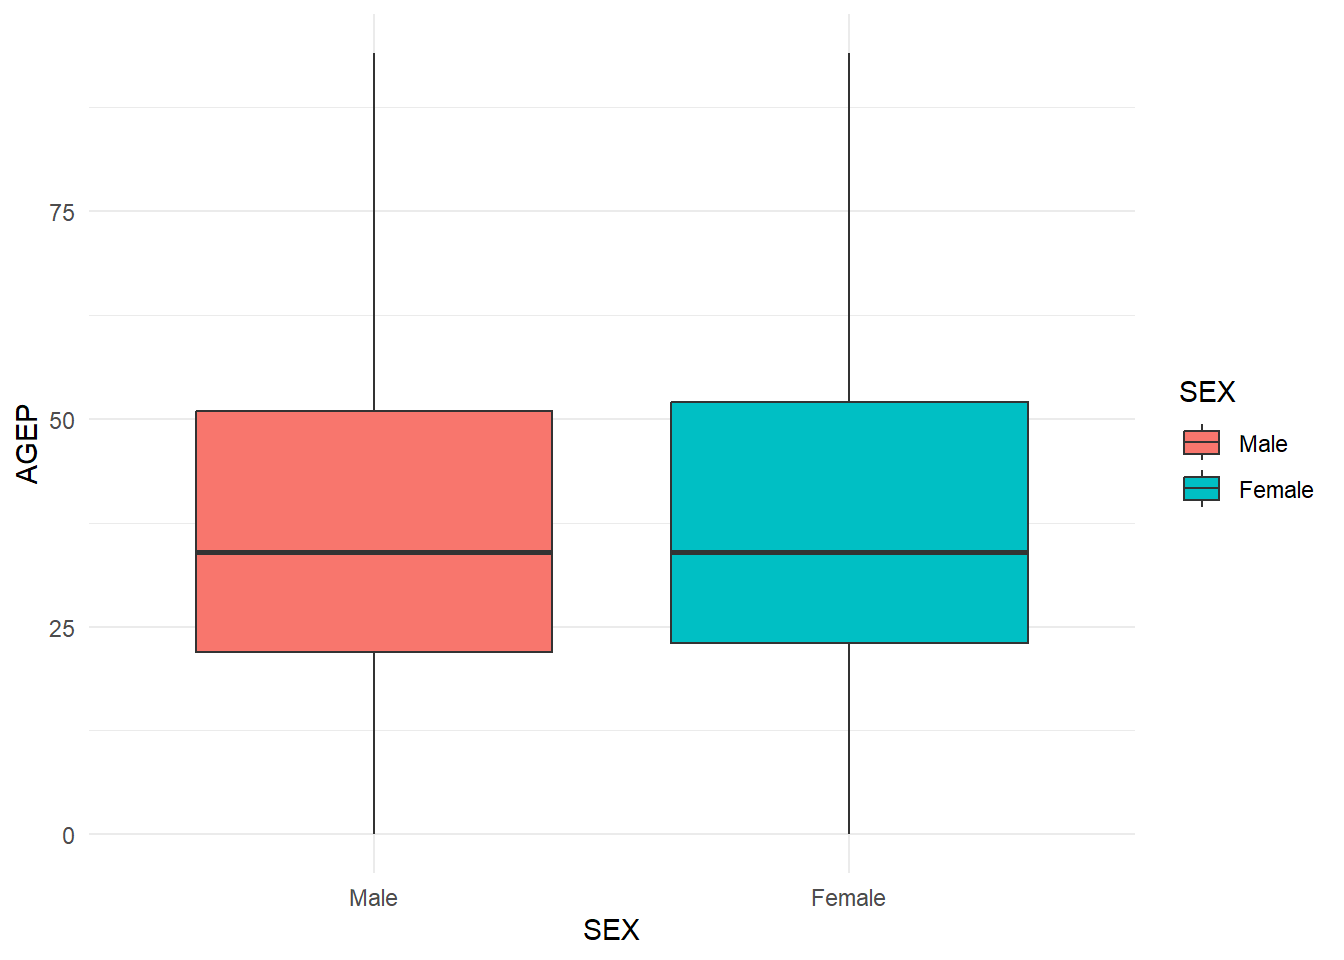
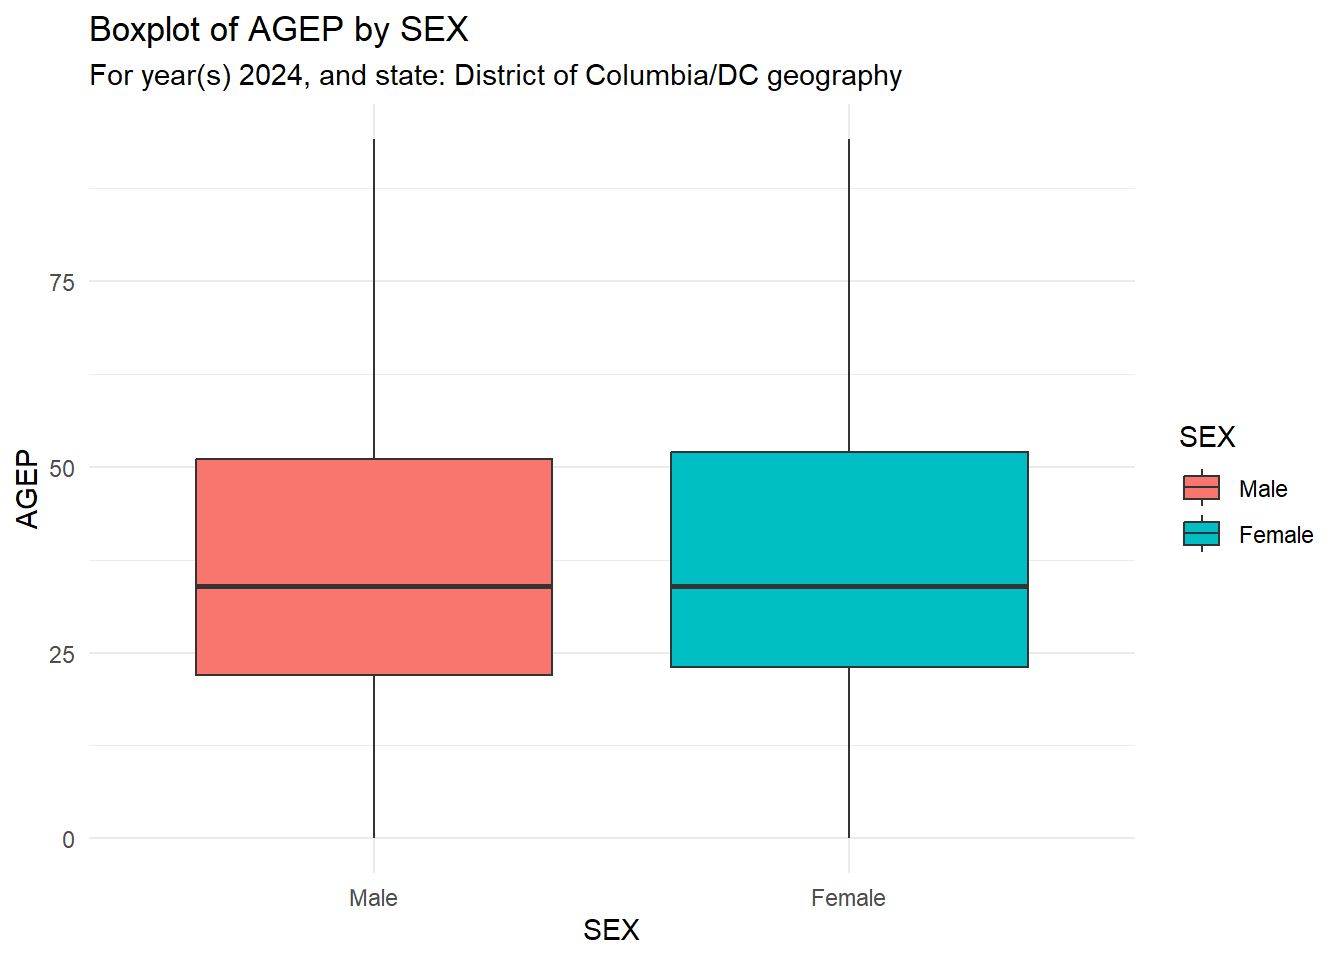
Add plot title/subtitle

diff --git a/docs/ST558_Project1_Nowak.html b/docs/ST558_Project1_Nowak.html
@@ -636,17 +636,37 @@ pre > code.sourceCode > span > a:first-child::before { text-decoration: underlin
 <span id="cb14-14"><a href="#cb14-14" aria-hidden="true" tabindex="-1"></a>  } <span class="cf">else</span> <span class="cf">if</span>(<span class="sc">!</span>cat <span class="sc">%in%</span> <span class="fu">c</span>(all_cats, <span class="st">"YEAR"</span>)){</span>
 <span id="cb14-15"><a href="#cb14-15" aria-hidden="true" tabindex="-1"></a>    <span class="fu">stop</span>(<span class="st">"Invalid CAT input. The variable is not on the approved list."</span>)</span>
 <span id="cb14-16"><a href="#cb14-16" aria-hidden="true" tabindex="-1"></a>  }</span>
-<span id="cb14-17"><a href="#cb14-17" aria-hidden="true" tabindex="-1"></a></span>
-<span id="cb14-18"><a href="#cb14-18" aria-hidden="true" tabindex="-1"></a>  <span class="do">## PLOT</span></span>
-<span id="cb14-19"><a href="#cb14-19" aria-hidden="true" tabindex="-1"></a>  g <span class="ot">&lt;-</span> <span class="fu">ggplot</span>(<span class="at">data=</span>tdata,</span>
-<span id="cb14-20"><a href="#cb14-20" aria-hidden="true" tabindex="-1"></a>              <span class="fu">aes</span>(<span class="at">x=</span><span class="fu">get</span>(cat), <span class="at">y=</span><span class="fu">get</span>(num), <span class="at">weight=</span>PWGTP, <span class="at">fill=</span><span class="fu">get</span>(cat)) )</span>
-<span id="cb14-21"><a href="#cb14-21" aria-hidden="true" tabindex="-1"></a></span>
-<span id="cb14-22"><a href="#cb14-22" aria-hidden="true" tabindex="-1"></a>  g <span class="sc">+</span> <span class="fu">geom_boxplot</span>() <span class="sc">+</span></span>
-<span id="cb14-23"><a href="#cb14-23" aria-hidden="true" tabindex="-1"></a>    <span class="fu">labs</span>(<span class="at">x=</span>cat, <span class="at">y=</span>num) <span class="sc">+</span></span>
-<span id="cb14-24"><a href="#cb14-24" aria-hidden="true" tabindex="-1"></a>    <span class="fu">scale_fill_discrete</span>(<span class="at">name=</span>cat) <span class="sc">+</span> </span>
-<span id="cb14-25"><a href="#cb14-25" aria-hidden="true" tabindex="-1"></a>    <span class="fu">theme_minimal</span>()</span>
-<span id="cb14-26"><a href="#cb14-26" aria-hidden="true" tabindex="-1"></a>  </span>
-<span id="cb14-27"><a href="#cb14-27" aria-hidden="true" tabindex="-1"></a>}</span></code><button title="Copy to Clipboard" class="code-copy-button"><i class="bi"></i></button></pre></div>
+<span id="cb14-17"><a href="#cb14-17" aria-hidden="true" tabindex="-1"></a>  </span>
+<span id="cb14-18"><a href="#cb14-18" aria-hidden="true" tabindex="-1"></a>  <span class="do">## SUBTITLE PREP: </span></span>
+<span id="cb14-19"><a href="#cb14-19" aria-hidden="true" tabindex="-1"></a>  </span>
+<span id="cb14-20"><a href="#cb14-20" aria-hidden="true" tabindex="-1"></a>  <span class="co"># years present in data</span></span>
+<span id="cb14-21"><a href="#cb14-21" aria-hidden="true" tabindex="-1"></a>  which_years <span class="ot">&lt;-</span> tdata <span class="sc">|&gt;</span> <span class="fu">mutate</span>(<span class="at">YEAR =</span> <span class="fu">as.character</span>(YEAR)) <span class="sc">|&gt;</span> <span class="fu">select</span>(YEAR) <span class="sc">|&gt;</span> <span class="fu">unique</span>()</span>
+<span id="cb14-22"><a href="#cb14-22" aria-hidden="true" tabindex="-1"></a>  </span>
+<span id="cb14-23"><a href="#cb14-23" aria-hidden="true" tabindex="-1"></a>  years_phrase <span class="ot">&lt;-</span> <span class="fu">paste</span>(which_years<span class="sc">$</span>YEAR, <span class="at">collapse=</span><span class="st">", "</span>)</span>
+<span id="cb14-24"><a href="#cb14-24" aria-hidden="true" tabindex="-1"></a></span>
+<span id="cb14-25"><a href="#cb14-25" aria-hidden="true" tabindex="-1"></a>  <span class="co">#top-level geography (rely on case sensitivity)</span></span>
+<span id="cb14-26"><a href="#cb14-26" aria-hidden="true" tabindex="-1"></a>  GEO <span class="ot">&lt;-</span> <span class="fu">setdiff</span>(<span class="fu">names</span>(tdata),all_vars)  <span class="co">#YEAR will always be [2]</span></span>
+<span id="cb14-27"><a href="#cb14-27" aria-hidden="true" tabindex="-1"></a>  </span>
+<span id="cb14-28"><a href="#cb14-28" aria-hidden="true" tabindex="-1"></a>  <span class="co">#sub-level geography</span></span>
+<span id="cb14-29"><a href="#cb14-29" aria-hidden="true" tabindex="-1"></a>  which_geo <span class="ot">&lt;-</span> tdata <span class="sc">|&gt;</span> <span class="fu">mutate</span>(<span class="at">SUBGEO =</span> <span class="fu">as.character</span>(<span class="fu">get</span>(GEO[<span class="dv">1</span>]))) <span class="sc">|&gt;</span> <span class="fu">select</span>(SUBGEO) <span class="sc">|&gt;</span> <span class="fu">unique</span>()</span>
+<span id="cb14-30"><a href="#cb14-30" aria-hidden="true" tabindex="-1"></a>  </span>
+<span id="cb14-31"><a href="#cb14-31" aria-hidden="true" tabindex="-1"></a>  geo_phrase <span class="ot">&lt;-</span> <span class="fu">ifelse</span>(<span class="fu">nrow</span>(which_geo)<span class="sc">==</span><span class="dv">1</span>,</span>
+<span id="cb14-32"><a href="#cb14-32" aria-hidden="true" tabindex="-1"></a>                       <span class="fu">paste0</span>(GEO[<span class="dv">1</span>], <span class="st">": "</span>, which_geo<span class="sc">$</span>SUBGEO),</span>
+<span id="cb14-33"><a href="#cb14-33" aria-hidden="true" tabindex="-1"></a>                       <span class="fu">paste0</span>(GEO[<span class="dv">1</span>], <span class="st">" (combined)"</span>) )</span>
+<span id="cb14-34"><a href="#cb14-34" aria-hidden="true" tabindex="-1"></a></span>
+<span id="cb14-35"><a href="#cb14-35" aria-hidden="true" tabindex="-1"></a></span>
+<span id="cb14-36"><a href="#cb14-36" aria-hidden="true" tabindex="-1"></a>  <span class="do">## PLOT</span></span>
+<span id="cb14-37"><a href="#cb14-37" aria-hidden="true" tabindex="-1"></a>  g <span class="ot">&lt;-</span> <span class="fu">ggplot</span>(<span class="at">data=</span>tdata,</span>
+<span id="cb14-38"><a href="#cb14-38" aria-hidden="true" tabindex="-1"></a>              <span class="fu">aes</span>(<span class="at">x=</span><span class="fu">get</span>(cat), <span class="at">y=</span><span class="fu">get</span>(num), <span class="at">weight=</span>PWGTP, <span class="at">fill=</span><span class="fu">get</span>(cat)) )</span>
+<span id="cb14-39"><a href="#cb14-39" aria-hidden="true" tabindex="-1"></a></span>
+<span id="cb14-40"><a href="#cb14-40" aria-hidden="true" tabindex="-1"></a>  g <span class="sc">+</span> <span class="fu">geom_boxplot</span>() <span class="sc">+</span></span>
+<span id="cb14-41"><a href="#cb14-41" aria-hidden="true" tabindex="-1"></a>    <span class="fu">labs</span>(<span class="at">x=</span>cat, <span class="at">y=</span>num,</span>
+<span id="cb14-42"><a href="#cb14-42" aria-hidden="true" tabindex="-1"></a>         <span class="at">title=</span><span class="fu">paste0</span>(<span class="st">"Boxplot of "</span>,num,<span class="st">" by "</span>, cat),</span>
+<span id="cb14-43"><a href="#cb14-43" aria-hidden="true" tabindex="-1"></a>         <span class="at">subtitle=</span><span class="fu">paste0</span>(<span class="st">"For year(s) "</span>, years_phrase, <span class="st">", and "</span>, geo_phrase, <span class="st">" geography"</span>)) <span class="sc">+</span></span>
+<span id="cb14-44"><a href="#cb14-44" aria-hidden="true" tabindex="-1"></a>    <span class="fu">scale_fill_discrete</span>(<span class="at">name=</span>cat) <span class="sc">+</span> </span>
+<span id="cb14-45"><a href="#cb14-45" aria-hidden="true" tabindex="-1"></a>    <span class="fu">theme_minimal</span>()</span>
+<span id="cb14-46"><a href="#cb14-46" aria-hidden="true" tabindex="-1"></a>  </span>
+<span id="cb14-47"><a href="#cb14-47" aria-hidden="true" tabindex="-1"></a>}</span></code><button title="Copy to Clipboard" class="code-copy-button"><i class="bi"></i></button></pre></div>
 </div>
 </section>
 </section>
@@ -664,9 +684,9 @@ pre > code.sourceCode > span > a:first-child::before { text-decoration: underlin
 <div class="sourceCode cell-code" id="cb17"><pre class="sourceCode r code-with-copy"><code class="sourceCode r"><span id="cb17-1"><a href="#cb17-1" aria-hidden="true" tabindex="-1"></a><span class="fu">str</span>(default)</span></code><button title="Copy to Clipboard" class="code-copy-button"><i class="bi"></i></button></pre></div>
 <div class="cell-output cell-output-stdout">
 <pre><code>census [6,547 × 5] (S3: census/tbl_df/tbl/data.frame)
- $ SEX  : Factor w/ 2 levels "Male","Female": 2 2 2 2 2 2 2 1 1 2 ...
- $ PWGTP: num [1:6547] 117 171 44 69 98 105 28 24 64 106 ...
- $ AGEP : num [1:6547] 90 56 81 78 62 78 73 74 54 56 ...
+ $ SEX  : Factor w/ 2 levels "Male","Female": 2 1 1 2 1 1 2 2 1 1 ...
+ $ PWGTP: num [1:6547] 83 147 73 69 126 20 77 48 106 101 ...
+ $ AGEP : num [1:6547] 18 20 19 19 94 90 20 18 66 30 ...
  $ state: Factor w/ 52 levels "Tennessee/TN",..: 37 37 37 37 37 37 37 37 37 37 ...
  $ YEAR : Factor w/ 4 levels "2021","2022",..: 4 4 4 4 4 4 4 4 4 4 ...</code></pre>
 </div>
